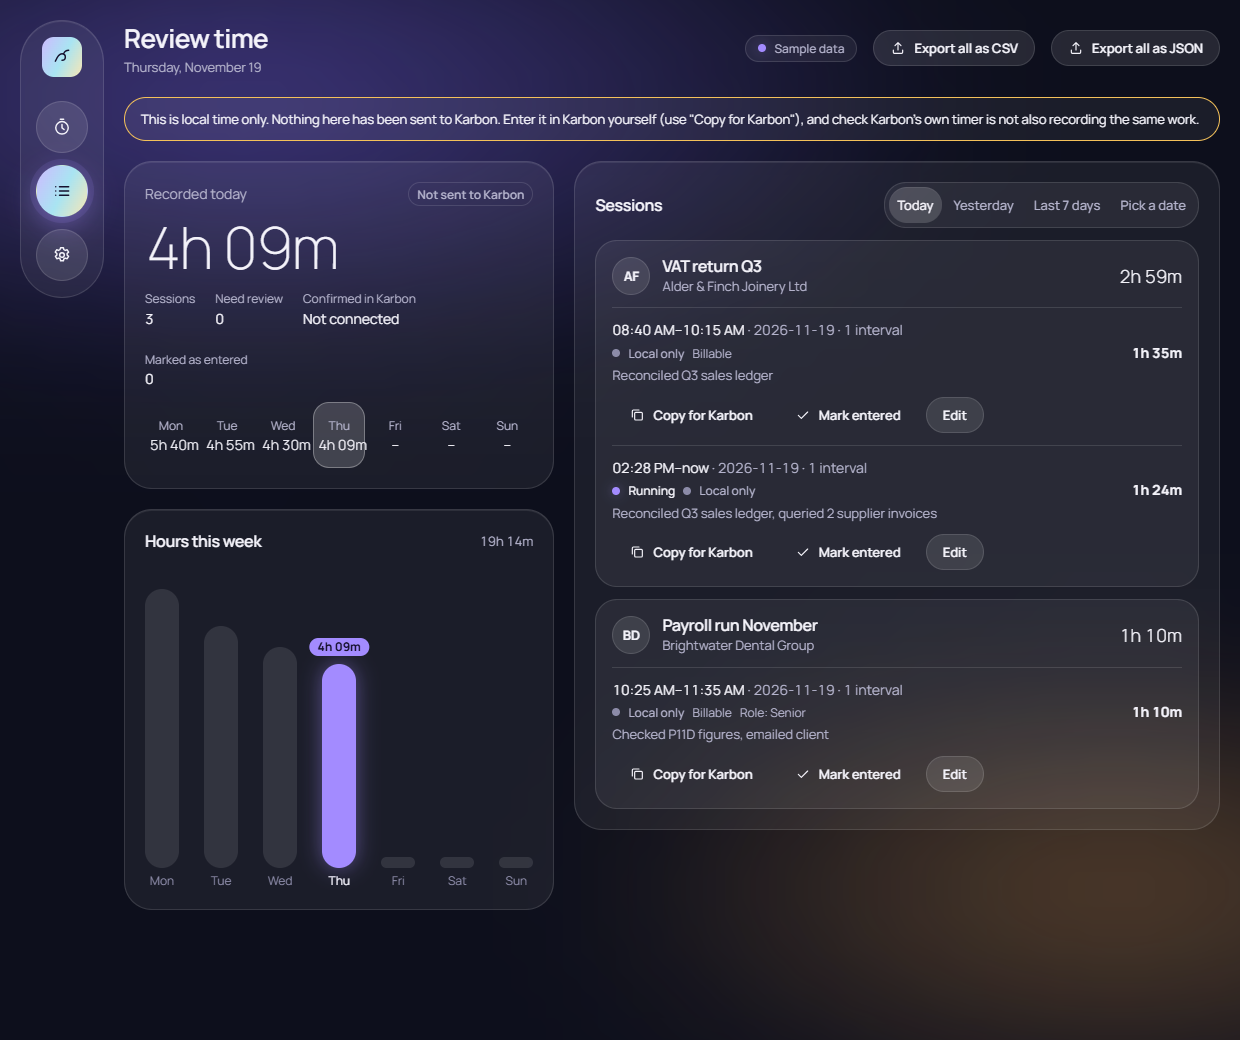
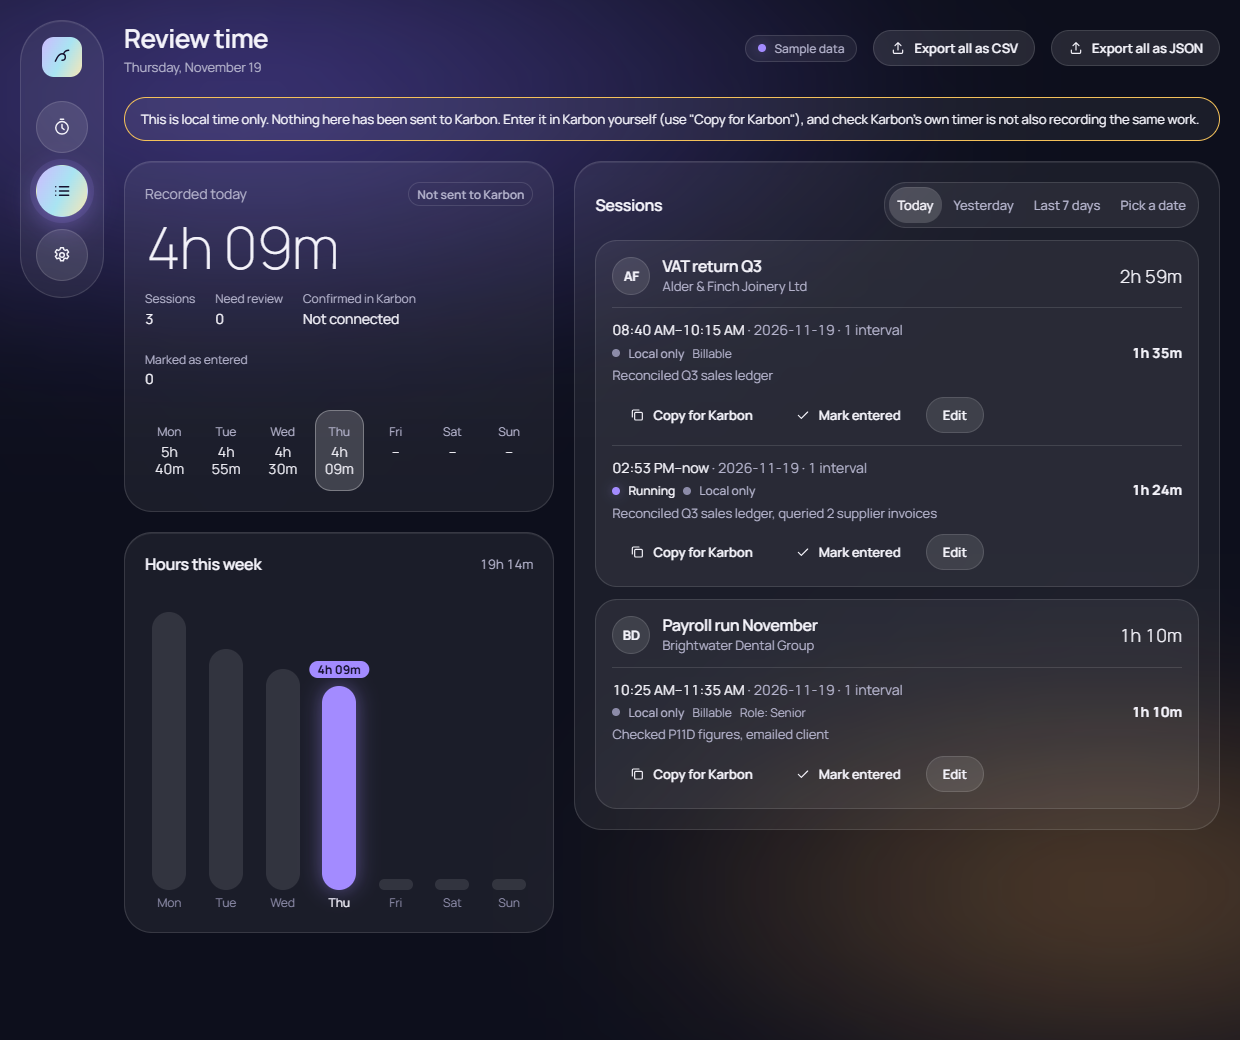
fix: keep Review's day strip, week chart and Settings inside their cards
- Day strip sizes to its card: more spacing, hours over minutes when one line does not fit, four columns when very narrow.
- Week chart columns share the width, so the chart fits a 320px card.
- Settings cards no longer force a minimum wider than the page.
- New E2E check fails when any text or control spills out of its box, on every surface and width.

diff --git a/e2e/ui-quality.spec.ts b/e2e/ui-quality.spec.ts
@@ -2,7 +2,7 @@ import { mkdirSync, readFileSync, writeFileSync } from 'node:fs';
 import { createRequire } from 'node:module';
 import path from 'node:path';
 import type { Page } from '@playwright/test';
-import { EVIDENCE, openRealPopup, expect, rowAction, sampleMode, test } from './fixtures';
+import { EVIDENCE, openRealPopup, expect, rowAction, sampleMode, spills, test } from './fixtures';
 
 declare const chrome: any;
 declare const axe: any;
@@ -287,6 +287,89 @@ test('screenshot matrix for R0 design audit: states x themes x widths, including
     await pop.evaluate('window.close()').catch(() => undefined);
     pop.close();
   }
+});
+
+/** Long days on every past day of this week (widest durations, e.g. "23h 59m"), in sample mode. */
+async function seedLongWeek(p: Page) {
+  await p.evaluate(() => new Promise<void>((res) => {
+    const target = { kind: 'work-item', tenantId: 'sample', clientKind: 'Organization', clientId: 'org-alder', workItemId: 'wi-1002' };
+    const tz = Intl.DateTimeFormat().resolvedOptions().timeZone;
+    const fmt = new Intl.DateTimeFormat('en-CA', { timeZone: tz, year: 'numeric', month: '2-digit', day: '2-digit' });
+    const now = new Date();
+    const dow = (now.getDay() + 6) % 7;
+    const sessions: any[] = [];
+    for (let d = dow; d >= 1; d--) {
+      const day = new Date(now); day.setDate(now.getDate() - d); day.setHours(0, 0, 30, 0);
+      const mins = d === 1 ? 23 * 60 + 59 : 10 * 60 + 48 + d * 7;
+      const s = day.getTime(), e = s + mins * 60_000, iso = new Date(s).toISOString();
+      sessions.push({
+        id: crypto.randomUUID(), profileId: 'sample', target, targetKey: 'w:sample:Organization:org-alder:wi-1002',
+        label: { client: 'Alder & Finch Joinery Ltd', work: 'VAT return Q3' }, dateLocal: fmt.format(s), timeZone: tz, status: 'stopped',
+        startedAtUtc: iso, segments: [{ startedAtUtc: iso, endedAtUtc: new Date(e).toISOString(), elapsedMs: e - s }],
+        userNote: 'Long day', notesSchema: 1, billableIntent: 'billable', submissionStatus: 'local-only', lastEditedAtUtc: iso, version: 1,
+      });
+    }
+    const r = indexedDB.open('hourhop');
+    r.onsuccess = () => {
+      const t = r.result.transaction(['sessions'], 'readwrite');
+      for (const s of sessions) t.objectStore('sessions').put(s);
+      t.oncomplete = () => { r.result.close(); res(); };
+    };
+  }));
+}
+
+test('no text or control spills out of its box on any surface, at any supported width [KWS-036]', async ({ open }) => {
+  const found: string[] = [];
+  const check = async (p: Page, where: string, widths: number[]) => {
+    for (const w of widths) {
+      await p.setViewportSize({ width: w, height: 1000 });
+      await p.waitForTimeout(150);
+      for (const s of await spills(p)) found.push(`${where} @${w}px: ${s}`);
+      if (pageWidthsSet.has(w)) await p.screenshot({ path: path.join(EVIDENCE, `fit-${where.replace(/[^a-z0-9]+/gi, '-')}-${w}.png`), fullPage: true });
+    }
+  };
+  const panelWidths = [320, 360, 400, 480, 600];
+  const pageWidths = [320, 360, 480, 600, 768, 900, 1024, 1240, 1440];
+  const pageWidthsSet = new Set([...panelWidths, ...pageWidths, 300]);
+
+  const p = await open('sidepanel.html');
+  await p.getByRole('button', { name: 'Try sample data' }).waitFor();
+  await check(p, 'panel onboarding', panelWidths);
+  await p.getByRole('button', { name: 'Try sample data' }).click();
+  await p.getByRole('region', { name: 'Current timer' }).waitFor();
+  await seedLongWeek(p);
+  await p.reload();
+  await p.getByRole('button', { name: 'All work', exact: true }).click();
+  await check(p, 'panel idle, all work', panelWidths);
+  await rowAction(p, ALDER, 'VAT return Q3').click();
+  await p.getByRole('button', { name: 'Budget details' }).click();
+  await check(p, 'panel running, budget details', panelWidths);
+  await p.getByRole('button', { name: 'Recent', exact: true }).click();
+  await check(p, 'panel recent', panelWidths);
+
+  const pop = await open('popup.html');
+  await check(pop, 'popup page', [300, 360]);
+
+  const r = await open('review.html');
+  await r.getByText('VAT return Q3').first().waitFor();
+  // Every 16px: the day strip switches layout by its card's width, so no width between the breakpoints may break.
+  await check(r, 'review today', Array.from({ length: 71 }, (_, i) => 320 + i * 16));
+  await r.getByRole('button', { name: 'Last 7 days', exact: true }).click();
+  await check(r, 'review last 7 days', pageWidths);
+
+  await r.getByRole('button', { name: /^Edit session/ }).first().click();
+  await r.getByRole('dialog', { name: 'Edit session' }).waitFor();
+  await check(r, 'review edit dialog', [320, 360, 600, 1240]);
+  await r.keyboard.press('Escape');
+
+  const s = await open('options.html');
+  await s.getByRole('heading', { name: 'Appearance' }).waitFor();
+  await check(s, 'settings', pageWidths);
+  await s.getByRole('button', { name: 'Delete all HourHop data…' }).click();
+  await s.getByRole('dialog', { name: 'Delete all HourHop data?' }).waitFor();
+  await check(s, 'settings delete dialog', [320, 600, 1240]);
+
+  expect(found, found.join('\n')).toEqual([]);
 });
 
 test('search has exactly one clear control and form fields add no stray height [KWS-036]', async ({ open }) => {

diff --git a/src/ui/app.css b/src/ui/app.css
@@ -216,7 +216,8 @@ textarea.input { padding: var(--space-3) var(--space-4); min-height: calc(var(--
 .bar-col { display: flex; flex-direction: column; align-items: center; gap: var(--space-1); height: 100%; justify-content: flex-end; position: relative; }
 .bar-col .bar-fill { flex: 1 1 auto; display: flex; align-items: flex-end; width: 100%; justify-content: center; }
 .bar { width: var(--bar-w); min-height: var(--space-1); border-radius: var(--radius-full); background: var(--track); position: relative; }
-.bars.lg .bar { width: var(--bar-w-lg); }
+.bars.lg .bar { width: min(var(--bar-w-lg), 100%); }
+.bars.lg .bar-col { flex: 1 1 0; min-width: 0; } /* columns share the width, so a narrow card never overflows */
 .bar.today { background: var(--accent); box-shadow: 0 0 var(--space-5) var(--accent-glow); }
 .bar-tip { position: absolute; bottom: calc(100% + var(--space-2)); left: 50%; transform: translateX(-50%); background: var(--accent); color: var(--on-accent); font-weight: var(--weight-bold); font-size: var(--text-xs); padding: 0 var(--space-2); border-radius: var(--radius-full); white-space: nowrap; }
 .bar-day { font-size: var(--text-xs); color: var(--text-3); }
@@ -232,14 +233,21 @@ textarea.input { padding: var(--space-3) var(--space-4); min-height: calc(var(--
 .main { display: flex; flex-direction: column; gap: var(--space-5); min-width: 0; }
 .topbar { display: flex; align-items: center; gap: var(--space-4); flex-wrap: wrap; }
 .review-grid { display: grid; grid-template-columns: minmax(0, 2fr) minmax(0, 3fr); gap: var(--space-5); align-items: start; }
-.settings-grid { display: grid; grid-template-columns: repeat(auto-fit, minmax(calc(var(--field-min) * 2), 1fr)); gap: var(--space-5); align-items: start; }
+.settings-grid { display: grid; grid-template-columns: repeat(auto-fit, minmax(min(calc(var(--field-min) * 2), 100%), 1fr)); gap: var(--space-5); align-items: start; }
 .span-2 { grid-column: span 2; }
 .stat { font-size: var(--text-stat); font-weight: var(--weight-thin); letter-spacing: var(--tracking-tight); line-height: 1; font-variant-numeric: tabular-nums; }
-.days-strip { display: grid; grid-template-columns: repeat(7, minmax(0, 1fr)); gap: var(--space-1); }
-.day { border-radius: var(--radius-md); padding: var(--space-3) var(--space-1); text-align: center; border: var(--border-w) solid transparent; background: transparent; color: inherit; font: inherit; cursor: pointer; }
+.days-strip { display: grid; grid-template-columns: repeat(7, minmax(0, 1fr)); gap: var(--space-2); margin-top: var(--space-2); }
+.day { border-radius: var(--radius-md); padding: var(--space-3) var(--space-2); display: flex; flex-direction: column; align-items: center; gap: var(--space-1); text-align: center; border: var(--border-w) solid transparent; background: transparent; color: inherit; font: inherit; cursor: pointer; }
 .day:hover { background: var(--glass); }
 .day[aria-pressed="true"] { background: var(--glass-solid); border-color: var(--line-strong); }
 .day-h { font-size: var(--text-md); font-weight: var(--weight-light); font-variant-numeric: tabular-nums; white-space: nowrap; }
+/* The strip follows its card's width, not the window's: when seven one-line durations do not fit, every day
+   stacks hours over minutes together, so the row stays even and nothing spills out of a highlighted day. */
+.card:has(> .days-strip) { container-type: inline-size; }
+@container (max-width: 380px) { /* seven stacked days need about 370px */ .days-strip { grid-template-columns: repeat(4, minmax(0, 1fr)); } }
+@container (max-width: 640px) { /* the widest day, "23h 59m", fits one line above this */
+  .day-h { white-space: normal; width: min-content; margin-inline: auto; line-height: var(--leading-tight); }
+}
 .group { border-radius: var(--radius-lg); padding: var(--space-4); background: var(--glass); border: var(--border-w) solid var(--line); display: flex; flex-direction: column; }
 .group.needs-review { border-color: var(--warning); }
 .group-head { display: flex; gap: var(--space-3); align-items: center; }
@@ -278,7 +286,6 @@ textarea.input { padding: var(--space-3) var(--space-4); min-height: calc(var(--
   .app { grid-template-columns: minmax(0, 1fr); padding: var(--space-3); }
   .rail { flex-direction: row; position: static; padding: var(--space-2) var(--space-3); justify-content: center; }
   .rail .mark { margin-bottom: 0; margin-right: var(--space-2); }
-  .days-strip { grid-template-columns: repeat(4, minmax(0, 1fr)); }
 }
 
 /* ---- forced colours: keep every boundary and state visible ---- */

diff --git a/e2e/fixtures.ts b/e2e/fixtures.ts
@@ -174,3 +174,24 @@ export async function openRealPopup(from: Page) {
     }
   }
 }
+
+/**
+ * Content wider or taller than its own box (overflow: visible), e.g. a duration spilling out of a highlighted day.
+ * Intentional clipping (overflow hidden/auto, text-overflow: ellipsis) and SVG internals are not counted.
+ */
+export async function spills(p: Page) {
+  return p.evaluate(() => {
+    const out: string[] = [];
+    for (const el of document.querySelectorAll<HTMLElement>('body *')) {
+      if (el.closest('svg') || el.closest('[hidden]')) continue;
+      const cs = getComputedStyle(el);
+      if (cs.display === 'none' || cs.display === 'contents' || cs.visibility === 'hidden' || cs.position === 'fixed') continue;
+      if (!el.offsetWidth || !el.offsetHeight) continue;
+      const name = `${el.tagName.toLowerCase()}.${String(el.className).trim().replace(/\s+/g, '.')} "${(el.textContent ?? '').trim().slice(0, 24)}"`;
+      if (cs.overflowX === 'visible' && el.scrollWidth > el.clientWidth + 1) out.push(`${name} wider by ${el.scrollWidth - el.clientWidth}px`);
+      // Height: boxes only. Plain text with tight leading (the big timer) reports taller glyphs than its line box.
+      if (cs.overflowY === 'visible' && el.firstElementChild && el.scrollHeight > el.clientHeight + 1 && el.tagName !== 'HTML' && el.tagName !== 'BODY') out.push(`${name} taller by ${el.scrollHeight - el.clientHeight}px`);
+    }
+    return [...new Set(out)];
+  });
+}

diff --git a/e2e/karbon.spec.ts b/e2e/karbon.spec.ts
@@ -1,5 +1,5 @@
 import type { BrowserContext, Page } from '@playwright/test';
-import { expect, test } from './fixtures';
+import { expect, spills, test } from './fixtures';
 
 // Karbon mode against a mocked api.karbonhq.com (context.route), on extension tab pages only, so no test can
 // ever reach the real Karbon. Shapes follow Karbon's published OpenAPI spec (karbonhq/karbon-api-reference).
@@ -67,6 +67,14 @@ test('connect Karbon: assigned open work and real budgets appear; read-only GETs
   await expect(p.locator('.dial-sub')).toHaveText('1h 45m of 3h budget'); // loaded lazily from EstimateSummaries
   await p.getByRole('button', { name: 'Budget details' }).click();
   await expect(p.getByText(/Your allocation: Karbon recorded 45m \/ 2h 00m/)).toBeVisible();
+  for (const w of [320, 380, 600]) { // Karbon's sync bar and budget lines fit their boxes
+    await p.setViewportSize({ width: w, height: 1000 });
+    expect(await spills(p), `side panel @${w}px`).toEqual([]);
+  }
+  for (const w of [320, 1240]) {
+    await s.setViewportSize({ width: w, height: 1000 });
+    expect(await spills(s), `settings @${w}px`).toEqual([]);
+  }
 
   expect(seen.length).toBeGreaterThan(0);
   for (const r of seen) {

diff --git a/tests/ui-guards.test.ts b/tests/ui-guards.test.ts
@@ -21,7 +21,7 @@ describe('one shared component system', () => {
 
   it('only tokens.css holds raw colour, size and font values', () => {
     for (const { f, text } of src.filter(({ f }) => f.endsWith('.css') && !f.endsWith('tokens.css'))) {
-      const c = code(text).replace(/@media[^{]*/g, ''); // breakpoints cannot use var()
+      const c = code(text).replace(/@(media|container)[^{]*/g, ''); // breakpoints cannot use var()
       expect(c, `${f}: hex colour`).not.toMatch(/#[0-9a-f]{3,8}\b/i);
       expect(c, `${f}: rgb/hsl colour`).not.toMatch(/\b(rgba?|hsla?|oklch)\(/);
       expect(c, `${f}: px literal`).not.toMatch(/\d+px/);

diff --git a/docs/design.md b/docs/design.md
@@ -89,7 +89,7 @@ Every surface uses the shared components in `src/ui/components.tsx` (Button, Ico
 - Every icon-only control has an accessible name ("Pause: Alder & Finch Joinery Ltd, VAT return Q3"); round controls also show a visible label.
 - Visible focus rings on everything; focus stays on a tile's button through a switch; dialogs return focus to their opener.
 - Forced colours keep every boundary and the live state visible.
-- Layout works from 320 to 600 CSS px in the panel, and at 150% and 200% browser zoom down to 240 CSS px. The full-tab pages reflow to one column, and the rail turns horizontal, below 640 px.
+- Layout works from 320 to 600 CSS px in the panel, and at 150% and 200% browser zoom down to 240 CSS px. The full-tab pages reflow to one column, and the rail turns horizontal, below 640 px. Components that sit in cards of varying width size themselves to their card (container queries), never the window: Review's day strip stacks hours over minutes when one-line durations would not fit, and drops to four columns in a very narrow card. No text or control may spill out of its own box at any supported width; `e2e/ui-quality.spec.ts` checks every surface for it.
 
 ## 6. Verification
 
